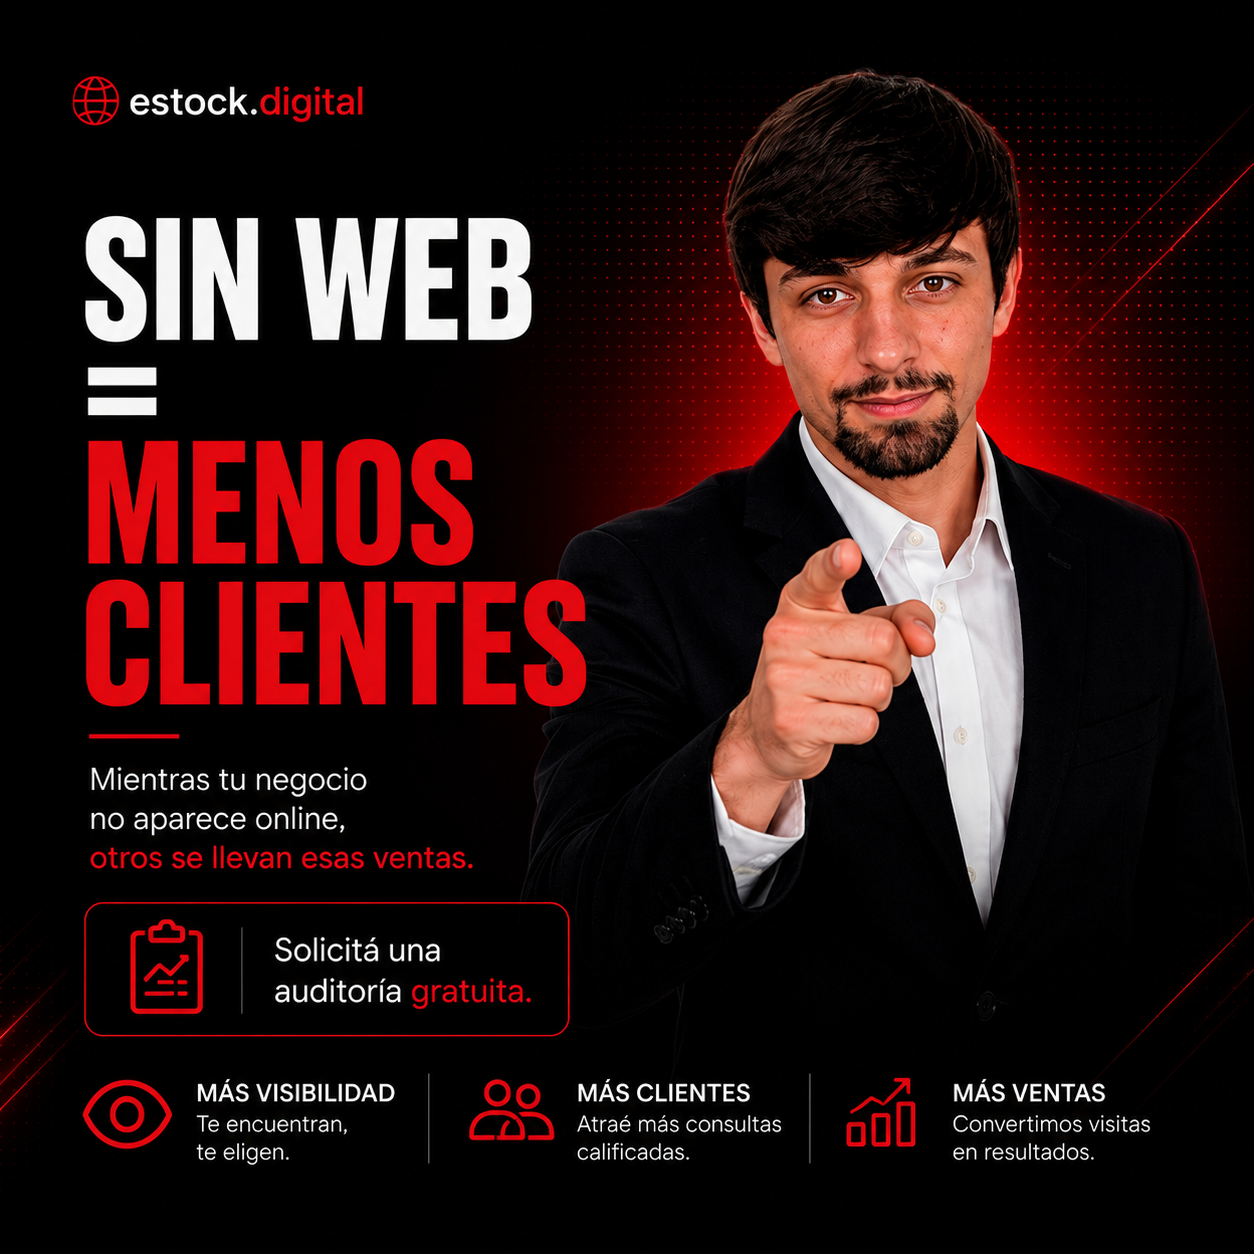
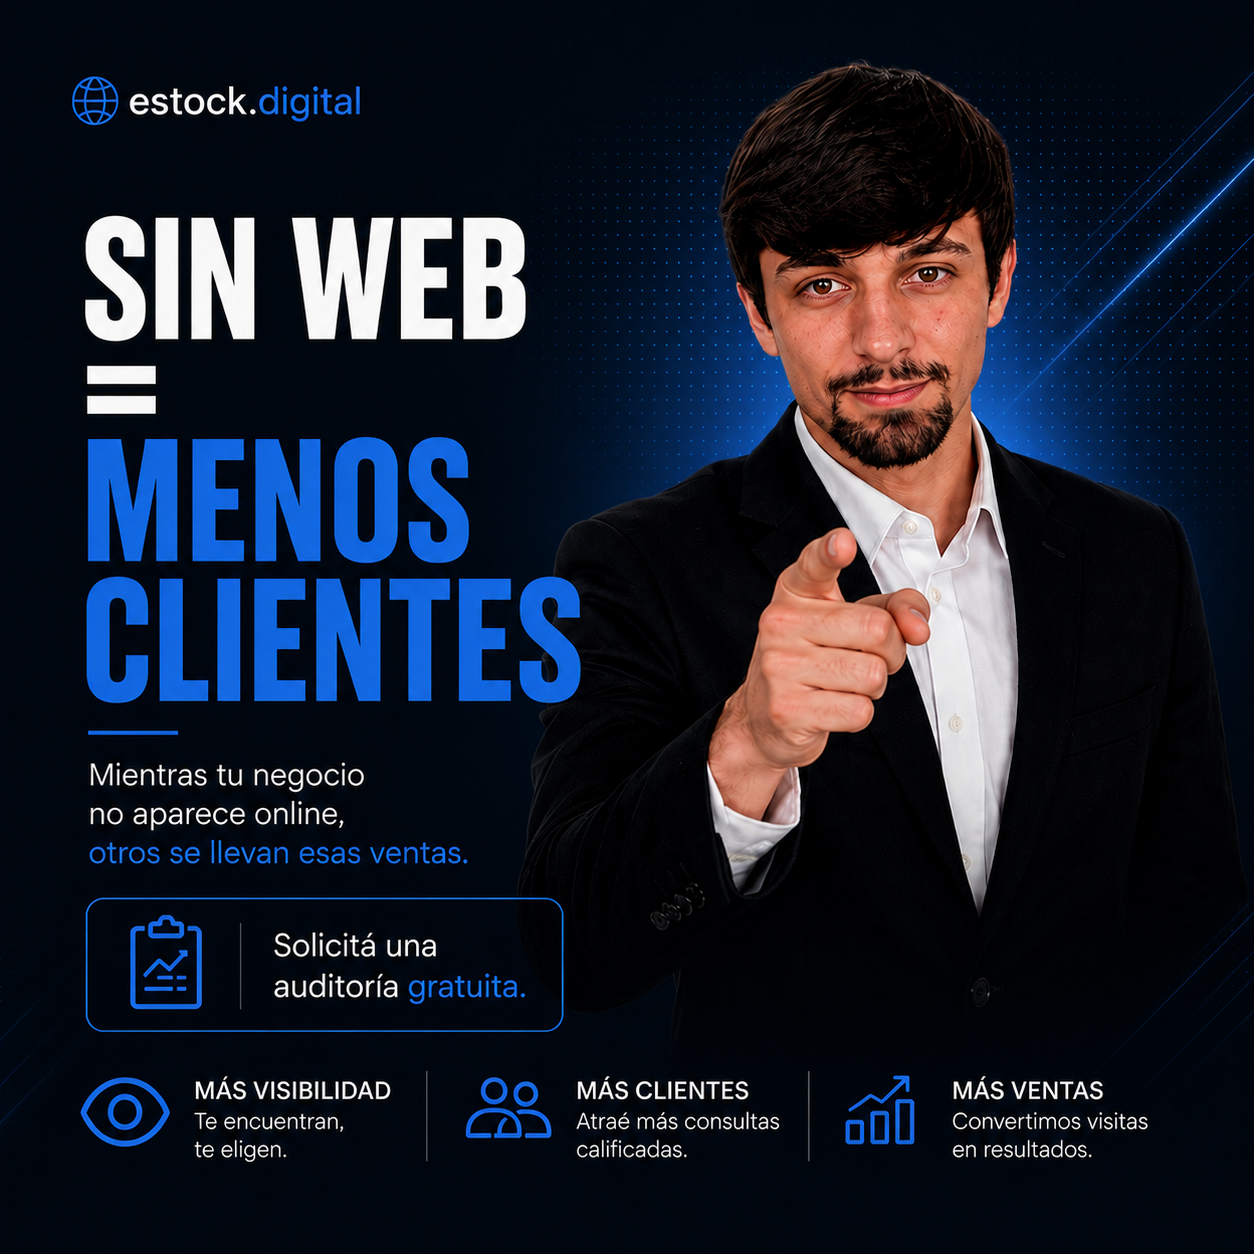
vs

diff --git a/js/portfolio.js b/js/portfolio.js
@@ -84,6 +84,36 @@ if (isPortfolioPage) {
     },
   });
 
+  function revealCardsOnScroll(selector, fromStateFn, opts = {}) {
+    const elements = gsap.utils.toArray(selector);
+    elements.forEach((el, index) => {
+      const fromState = fromStateFn(index);
+      gsap.set(el, { opacity: 0, ...fromState });
+    });
+
+    const observer = new IntersectionObserver((entries, obs) => {
+      entries.forEach((entry) => {
+        if (!entry.isIntersecting) return;
+
+        const card = entry.target;
+        const index = elements.indexOf(card);
+        gsap.to(card, {
+          opacity: 1,
+          x: 0,
+          y: 0,
+          scale: 1,
+          duration: opts.duration || 1.35,
+          ease: opts.ease || "power4.out",
+          delay: (opts.stagger || 0.12) * index,
+        });
+
+        obs.unobserve(card);
+      });
+    }, { threshold: 0.06 });
+
+    elements.forEach((el) => observer.observe(el));
+  }
+
   gsap.to(".visual-card img", {
     y: 12,
     duration: 10,
@@ -94,19 +124,78 @@ if (isPortfolioPage) {
   });
 
   // Animate tech cards as a group when the stack section enters view
-  gsap.from(".stack-grid .tech-card", {
+  gsap.from(".stack-section .section-header", {
     opacity: 0,
-    y: 36,
-    scale: 0.98,
+    y: 28,
     duration: 0.75,
     ease: "power3.out",
-    stagger: 0.12,
     scrollTrigger: {
       trigger: ".stack-section",
-      start: "top 78%",
+      start: "top 88%",
       once: true,
     },
   });
+
+  revealCardsOnScroll(
+    ".stack-grid .tech-card",
+    (index) => ({
+      x: index % 2 === 0 ? -110 : 110,
+      y: 58,
+      scale: 0.94,
+    }),
+    { duration: 1.35, stagger: 0.14, ease: "power4.out" },
+  );
+
+  gsap.from(".tools-section .tools-header", {
+    opacity: 0,
+    y: 30,
+    duration: 0.75,
+    ease: "power3.out",
+    scrollTrigger: {
+      trigger: ".tools-section",
+      start: "top 88%",
+      once: true,
+    },
+  });
+
+  gsap.from(
+    ".tools-section .tool-chip",
+    {
+      opacity: 0,
+      y: 24,
+      scale: 0.97,
+      duration: 0.7,
+      ease: "power3.out",
+      stagger: 0.08,
+      scrollTrigger: {
+        trigger: ".tools-section",
+        start: "top 90%",
+        once: true,
+      },
+    },
+  );
+
+  gsap.from(".projects-section .section-header", {
+    opacity: 0,
+    y: 30,
+    duration: 0.75,
+    ease: "power3.out",
+    scrollTrigger: {
+      trigger: ".projects-section",
+      start: "top 88%",
+      once: true,
+    },
+  });
+
+  revealCardsOnScroll(
+    ".projects-grid .project-card",
+    (index) => ({
+      x: index % 2 === 0 ? -120 : 120,
+      y: 60,
+      scale: 0.94,
+    }),
+    { duration: 1.35, stagger: 0.14, ease: "power4.out" },
+  );
 
   const aboutTl = gsap.timeline({
     scrollTrigger: {
@@ -144,33 +233,21 @@ if (isPortfolioPage) {
         stagger: 0.11,
       },
       "-=0.5",
-    )
-    .from(
-      ".detail-card",
-      {
-        opacity: 0,
-        x: 40,
-        y: 18,
-        duration: 0.75,
-        ease: "power3.out",
-        stagger: 0.12,
-      },
-      "-=0.55",
     );
 
   gsap.utils.toArray(".detail-card").forEach((card, index) => {
     gsap.from(card, {
       opacity: 0,
-      x: index % 2 === 0 ? -30 : 30,
-      y: 18,
-      duration: 0.7,
-      ease: "power3.out",
+      x: 140,
+      y: 0,
+      duration: 1.1,
+      ease: "power4.out",
       scrollTrigger: {
         trigger: card,
         start: "top 92%",
         once: true,
       },
-      delay: index * 0.05,
+      delay: index * 0.16,
     });
   });
 
@@ -211,6 +288,30 @@ if (isPortfolioPage) {
     scrollTrigger: {
       trigger: ".cv-card",
       start: "top 94%",
+      once: true,
+    },
+  });
+
+  gsap.from(".about-portfolio .about-copy", {
+    opacity: 0,
+    y: 30,
+    duration: 0.8,
+    ease: "power3.out",
+    scrollTrigger: {
+      trigger: ".about-portfolio",
+      start: "top 88%",
+      once: true,
+    },
+  });
+
+  gsap.from(".about-portfolio .about-details", {
+    opacity: 0,
+    y: 30,
+    duration: 0.8,
+    ease: "power3.out",
+    scrollTrigger: {
+      trigger: ".about-portfolio",
+      start: "top 90%",
       once: true,
     },
   });